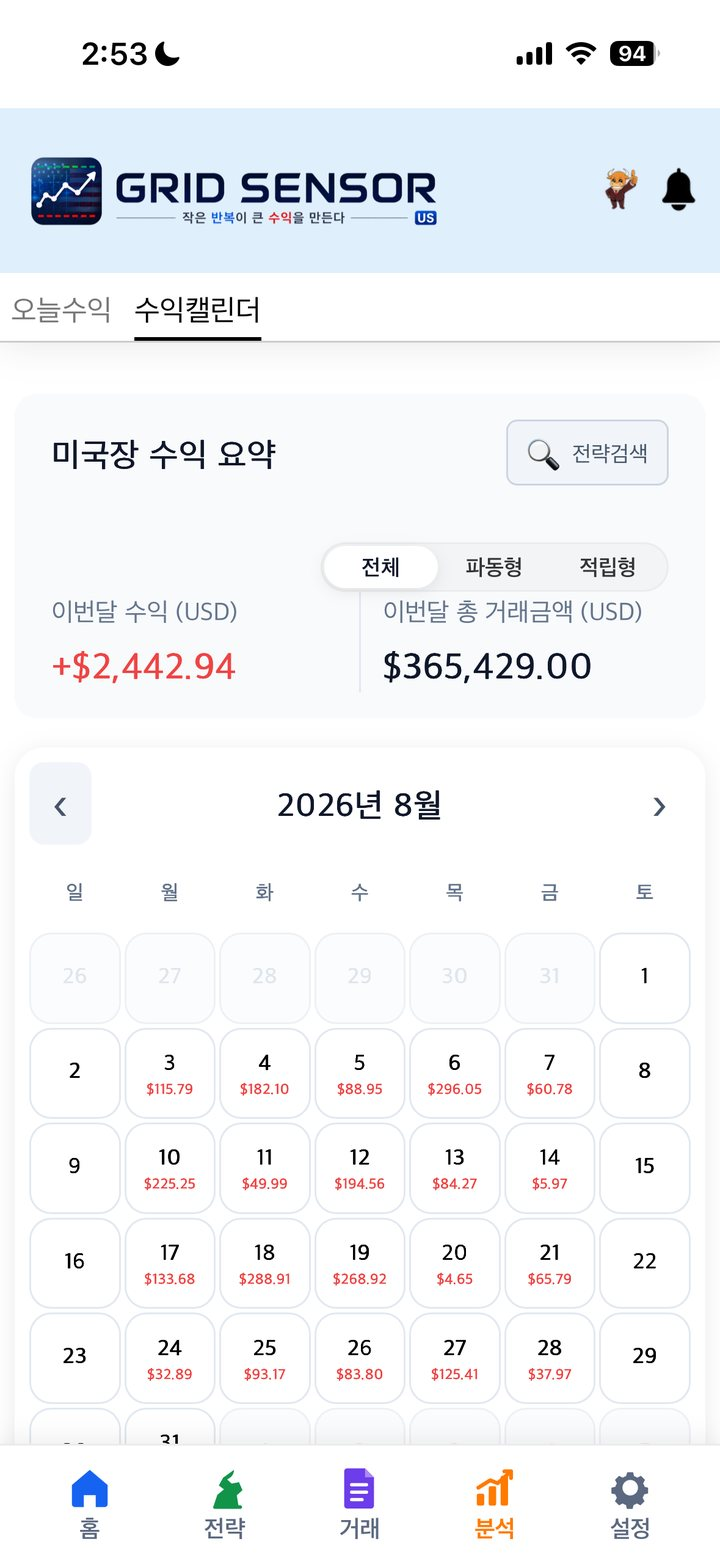
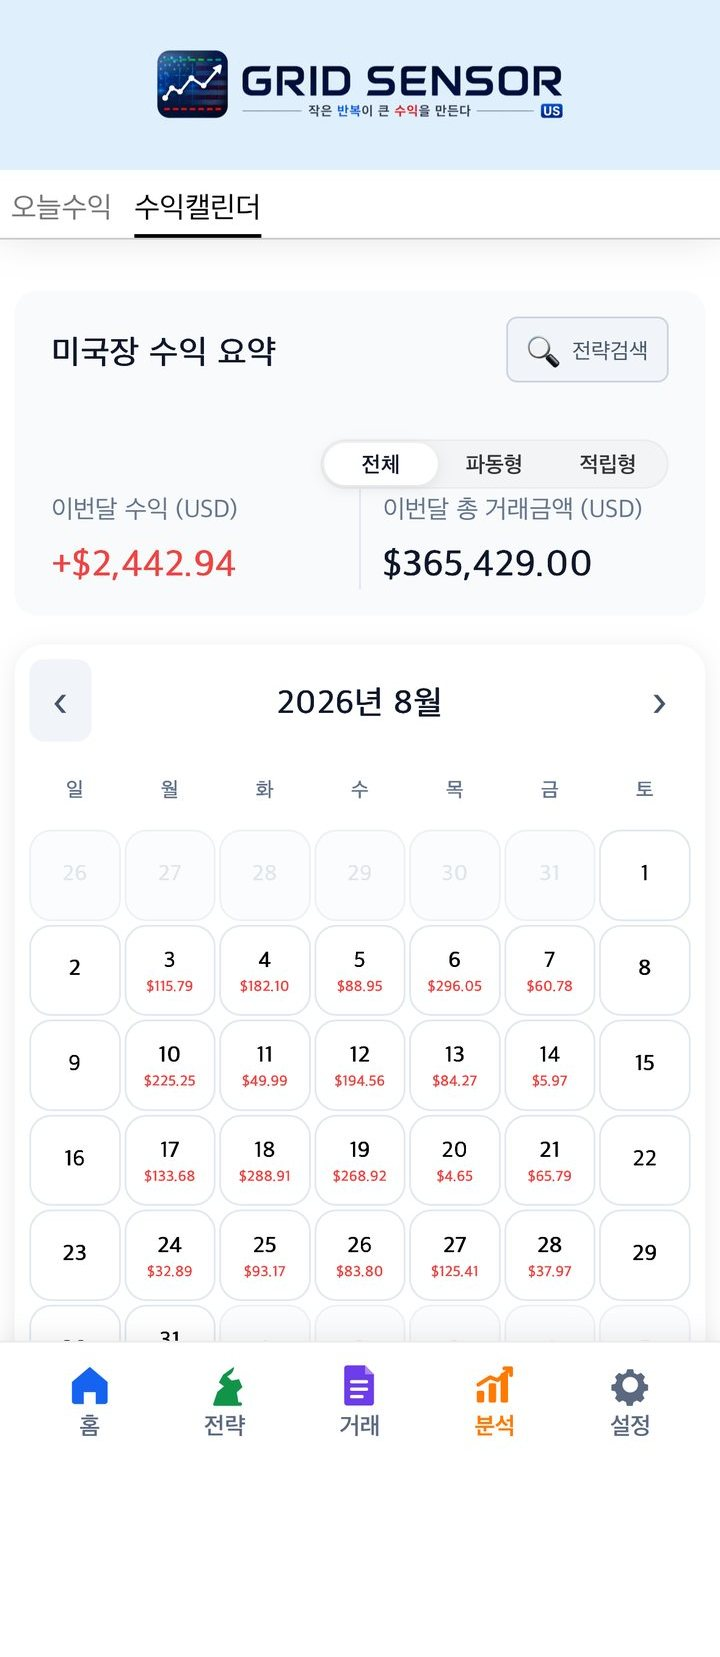
Add files via upload

diff --git a/gridsensor-zoom/index.html b/gridsensor-zoom/index.html
@@ -67,7 +67,8 @@
 .ptalk{display:flex;flex-wrap:wrap;justify-content:center;gap:14px;max-width:1020px;margin:0 auto}
 .ptalk>figure{flex:0 0 auto;width:calc((100% - 14px)/2);margin:0}
 @media (max-width:545px){.ptalk>figure{width:100%;max-width:400px}}
-.pshot img,.ptalk img{width:100%;height:auto;display:block;border-radius:12px;background:#fff}
+.pshot>figure{background:#FFFFFF;border:1px solid #E5E9F0;border-radius:14px;padding:8px;box-sizing:border-box;box-shadow:0 6px 18px rgba(16,32,64,.06)}
+.pshot img,.ptalk img{width:100%;height:auto;display:block;border-radius:9px;background:#fff}
 .pshot figcaption,.ptalk figcaption{margin:10px 2px 0;font-size:clamp(12.5px,2.1vw,13.5px);color:#4B5563;line-height:1.65}
 </style>
 </head>
@@ -101,22 +102,22 @@
 
   <div class="pshot">
       <figure>
-        <img src="https://ansojang.github.io/gridsensor-zoom/now_01.jpg" width="720" height="1561" alt="국내주식 2026년 8월 수익 캘린더 화면 · 수익 2,519,828원" loading="lazy">
+        <img src="https://ansojang.github.io/gridsensor-zoom/now_01.jpg" width="720" height="1657" alt="국내주식 KR 2026년 8월 수익 캘린더 화면" loading="lazy">
       </figure>
       <figure>
-        <img src="https://ansojang.github.io/gridsensor-zoom/now_11.jpg" width="720" height="1722" alt="국내주식 2026년 8월 수익 캘린더 화면 · 수익 2,144,540원" loading="lazy">
+        <img src="https://ansojang.github.io/gridsensor-zoom/now_12.jpg" width="720" height="1657" alt="미국주식 US 2026년 8월 수익 캘린더 화면" loading="lazy">
       </figure>
       <figure>
-        <img src="https://ansojang.github.io/gridsensor-zoom/now_02.jpg" width="720" height="1561" alt="국내주식 2026년 9월 수익 캘린더 화면 · 수익 1,079,705원" loading="lazy">
+        <img src="https://ansojang.github.io/gridsensor-zoom/now_13.jpg" width="720" height="1657" alt="디지털자산 DT 2026년 9월 수익 캘린더 화면" loading="lazy">
       </figure>
       <figure>
-        <img src="https://ansojang.github.io/gridsensor-zoom/now_12.jpg" width="720" height="1563" alt="미국주식 2026년 8월 수익 캘린더 화면 · 수익 3,594.76달러" loading="lazy">
+        <img src="https://ansojang.github.io/gridsensor-zoom/now_11.jpg" width="720" height="1657" alt="국내주식 KR 2026년 8월 수익 캘린더 화면" loading="lazy">
       </figure>
       <figure>
-        <img src="https://ansojang.github.io/gridsensor-zoom/now_03.jpg" width="720" height="1561" alt="미국주식 2026년 8월 수익 캘린더 화면 · 수익 2,442.94달러" loading="lazy">
+        <img src="https://ansojang.github.io/gridsensor-zoom/now_03.jpg" width="720" height="1657" alt="미국주식 US 2026년 8월 수익 캘린더 화면" loading="lazy">
       </figure>
       <figure>
-        <img src="https://ansojang.github.io/gridsensor-zoom/now_13.jpg" width="720" height="1332" alt="디지털자산 2026년 9월 수익 캘린더 화면 · 수익 701,159원" loading="lazy">
+        <img src="https://ansojang.github.io/gridsensor-zoom/now_02.jpg" width="720" height="1657" alt="국내주식 KR 2026년 9월 수익 캘린더 화면" loading="lazy">
       </figure>
   </div>
 

diff --git a/gridsensor-zoom/probe.html b/gridsensor-zoom/probe.html
@@ -1,0 +1,16 @@
+<!doctype html><meta charset="utf-8"><title>probe</title>
+<body style="font:13px monospace;white-space:pre"><div id="o">measuring...</div>
+<script>
+const W=[320,360,375,390,414,430,460,480,500,520,545,546,560,580,600,640,672,700,720,735];
+const out=[];
+function one(w){return new Promise(res=>{
+  const f=document.createElement('iframe');
+  f.style.cssText='position:absolute;left:-9999px;top:0;border:0;width:'+w+'px;height:200px;';
+  f.setAttribute('scrolling','no');
+  f.src='https://ansojang.github.io/gridsensor-zoom/index.html?p='+Math.floor(Math.random()*1e9);
+  f.onload=()=>{setTimeout(()=>{let h=0;try{h=f.contentDocument.documentElement.scrollHeight}catch(e){h=-1};res([w,h]);f.remove();},4200)};
+  document.body.appendChild(f);
+});}
+(async()=>{for(const w of W){const r=await one(w);out.push(r);document.getElementById('o').textContent=JSON.stringify(out);}
+document.getElementById('o').textContent='DONE '+JSON.stringify(out);})();
+</script>
